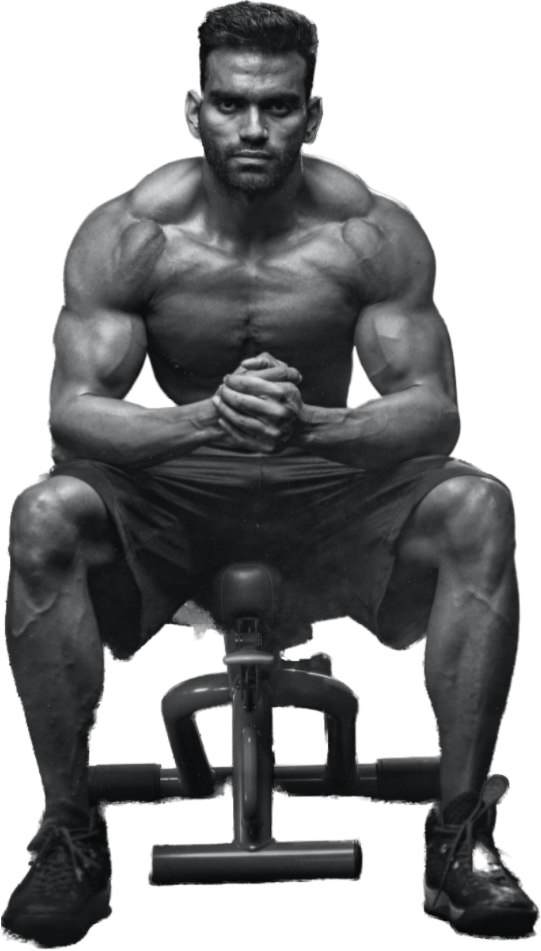
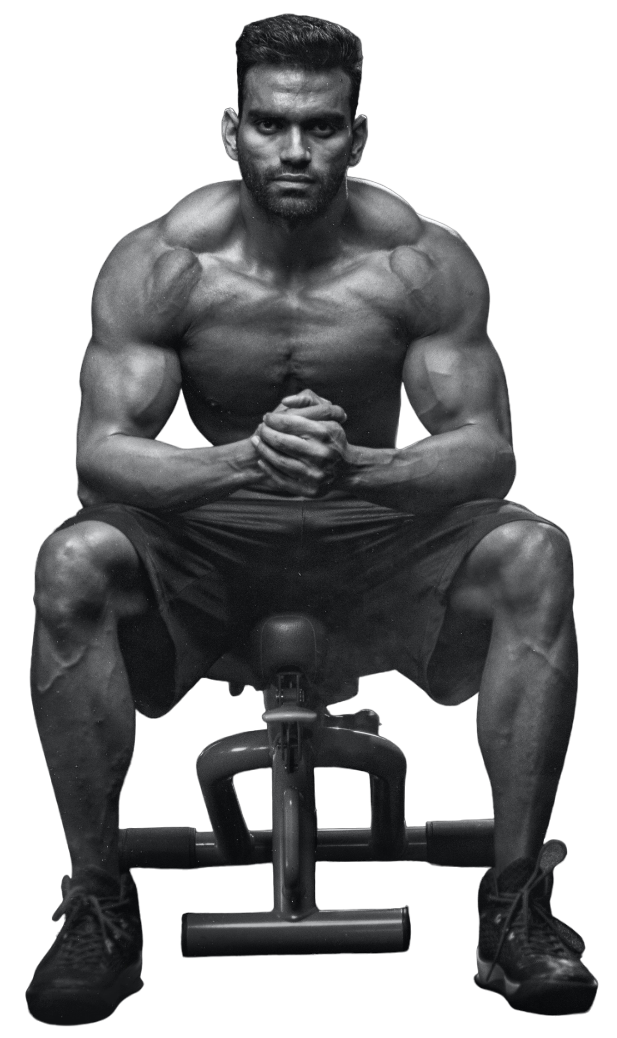
refactor: Trocando a imagem principal pela mesma com melhor qualidade

Changed region(s): [[0.0, 0.0, 1.0, 1.0], [0.414, 0.5794, 0.4436, 0.6099]]

diff --git a/styles.css b/styles.css
@@ -71,9 +71,9 @@ header {
 
 #principal-image {
     position: absolute;
-    top: 2rem;
-    left: 13%;
-    width: 32rem;
+    top: 1.5rem;
+    left: 8rem;
+    width: 35rem;
 }
 
 #text-slogan-of-section-of-header {
